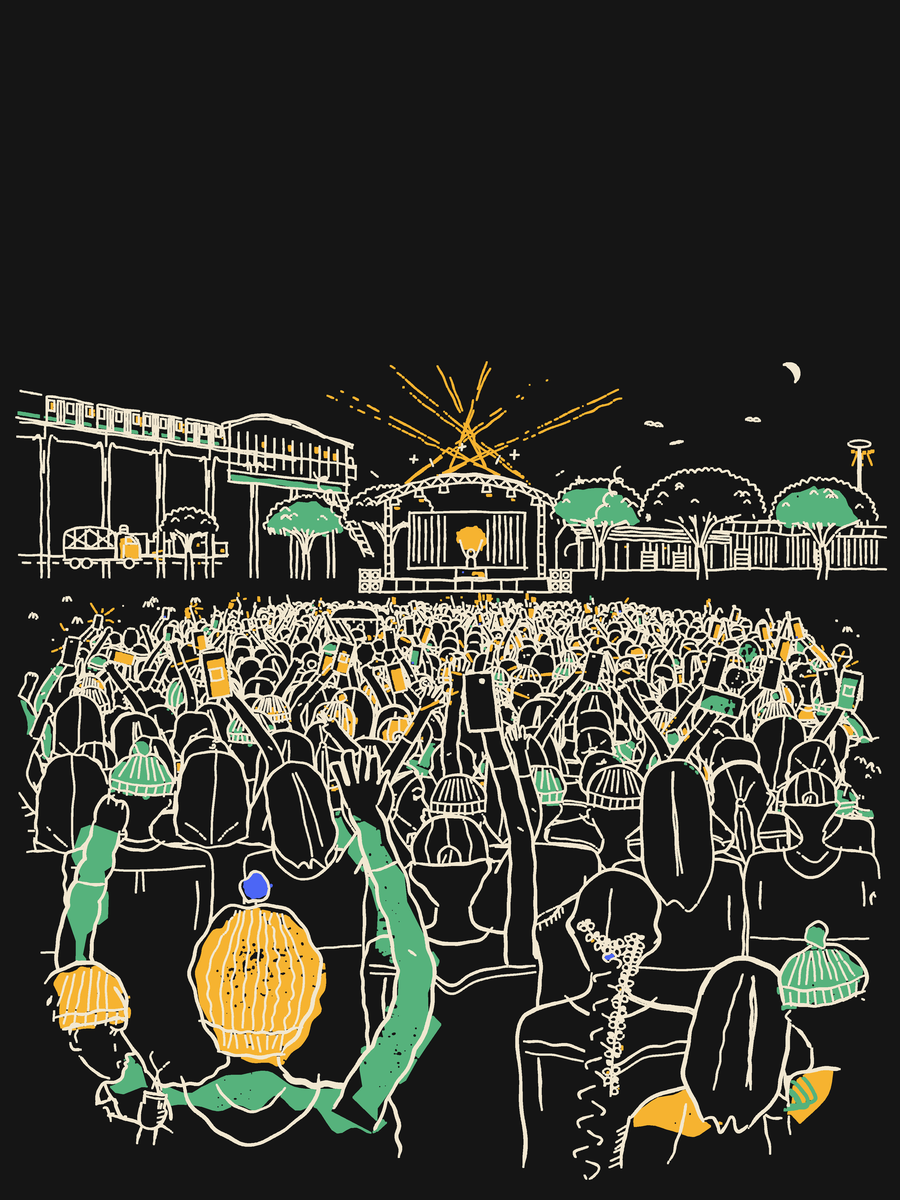
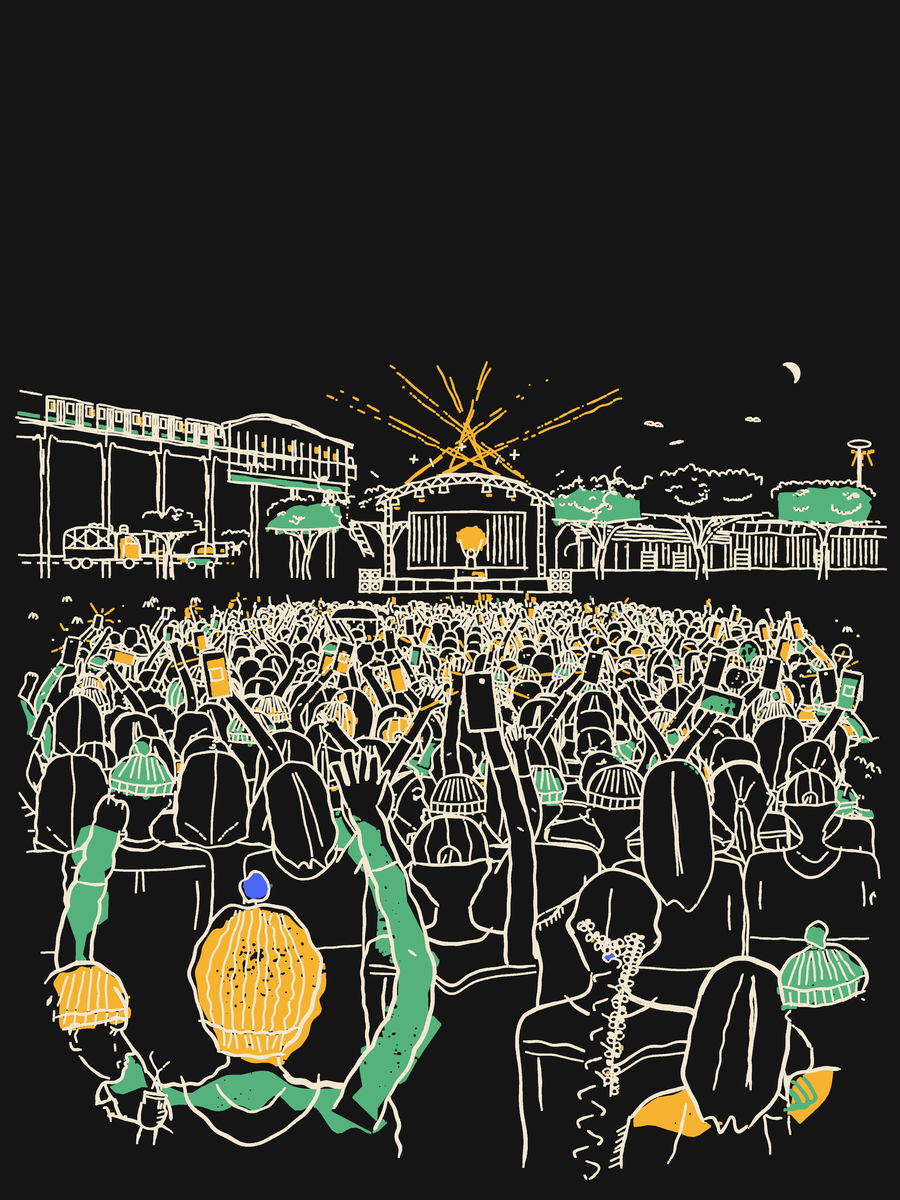
03 crowd: rain trees as clumped umbrellas with uneven leaf edges, a far row of trees behind the halls, hatched viaduct piers, a green-and-yellow auto on Tumakuru Road

diff --git a/pipeline/art/art-c-crowd/gen.py b/pipeline/art/art-c-crowd/gen.py
@@ -1539,8 +1539,22 @@ class Scene(Art):
             self.knock(col)
             self.line([cap[0], (x - cw * 0.55, yb + 10 * sc), (x - cw / 2 + rng.gauss(0, 0.3), 770)], lw, rng=rng, wob=0.3, trem=0.4, a0=0.5, a1=3.0)
             self.line([cap[1], (x + cw * 0.55, yb + 10 * sc), (x + cw / 2 + rng.gauss(0, 0.3), 770)], lw, rng=rng, wob=0.3, trem=0.4, a0=0.5, a1=3.0)
-            if sc > 0.75:
-                self.line([(x - cw * 0.12, yb + 16 * sc), (x - cw * 0.12 + rng.gauss(0, 0.4), yb + 16 * sc + rng.uniform(20, 45))], MINW, rng=rng, wob=0.2, trem=0.2, a0=0.5, a1=3.0)
+            # the side away from the stage lights: a few hand hatches, never the same twice
+            if cw > 7:
+                nh = rng.randint(1, 3) if sc > 0.75 else rng.randint(0, 1)
+                for j in range(nh):
+                    hx = x - cw * 0.5 + 2.6 + j * 2.9 + rng.uniform(-0.4, 0.4)
+                    if hx > x - 0.5:
+                        break
+                    y0h = yb + 13 * sc + rng.uniform(0, 14)
+                    self.line([(hx, y0h), (hx + rng.gauss(0, 0.3), y0h + rng.uniform(18, 70) * sc)], MINW, rng=rng, wob=0.2, trem=0.2, a0=0.5, a1=3.0)
+            # a lamp post on the parapet every other span
+            if k % 2 == 0 and x < XE - 30:
+                lx = x + rng.uniform(2, 6) * sc
+                ly = self.vg(lx)[0]
+                lh = 24 * sc + 4
+                self.line([(lx, ly - 1), (lx + rng.gauss(0, 0.3), ly - lh), (lx + 5 * sc + 1.5, ly - lh - 1.5)], MINW, rng=rng, wob=0.15, trem=0, a0=0.3, a1=0.4)
+                self.dot(lx + 5 * sc + 2.5, ly - lh + 1.2, 1.9, layer='Y', rng=rng)
         self.marks['viaduct'] = (180, self.vg(180)[1])
 
     def train(self, rng):
@@ -1705,10 +1719,34 @@ class Scene(Art):
         for a in (-0.35, -0.05, 0.25):
             self.line([(hx + 5, hy + a * 6), (hx + 22 + rng.uniform(0, 8), hy + a * 22)], MINW, rng=rng, layer='Y', wob=0.3, trem=0, a0=0.4, a1=2.0)
         self.marks['lorry'] = (x0 + 50, gy - 54)
-        # headlights further down the road
-        for (hx, hy) in ((236, 747), (262, 748)):
+        # an auto coming the other way: yellow hood, green body, the way they run here
+        self.auto(250, gy, rng)
+        # a car further down, just its lights
+        for (hx, hy) in ((300, 748),):
             self.dot(hx, hy, 2.1, layer='Y', rng=rng)
             self.dot(hx + 7, hy + 0.4, 2.1, layer='Y', rng=rng)
+
+    def auto(self, xf, gy, rng):
+        """an autorickshaw side-on, nose to the left"""
+        xr = xf + 36
+        hood = [(xf + 7, gy - 15), (xf + 8, gy - 27), (xf + 14, gy - 31), (xr - 8, gy - 32), (xr - 1, gy - 27), (xr + 1, gy - 14)]
+        body = [(xf - 1, gy - 6), (xf, gy - 12), (xf + 5, gy - 16), (xr + 1, gy - 15), (xr + 2, gy - 6)]
+        self.knock(hood + [(xr + 2, gy - 4), (xf - 1, gy - 4), (xf, gy - 12)])
+        self.blob([(xf + 9, gy - 26), (xf + 14, gy - 30), (xr - 8, gy - 31), (xr - 1, gy - 26), (xr - 1, gy - 22), (xf + 9, gy - 22)], 'Y', rng=rng, gap=0.0,
+                  shift=0.5, jit=0.03, n=16)
+        self.blob([(xf + 1, gy - 7), (xf + 2, gy - 12), (xf + 6, gy - 15), (xr, gy - 14), (xr + 1, gy - 7)], 'G', rng=rng, gap=0.0, shift=0.5, jit=0.03, n=16)
+        self.line(hood, MINW, rng=rng, wob=0.3, trem=0.2, a0=0.5, a1=0.8)
+        self.line(body, MINW, rng=rng, wob=0.3, trem=0.2, a0=0.5, a1=0.8)
+        self.line([(xf + 8, gy - 27), (xf + 3, gy - 14)], MINW, rng=rng, wob=0.2, trem=0, a0=0.3, a1=0.4)     # windscreen
+        self.line([(xr - 12, gy - 31), (xr - 13, gy - 15)], MINW, rng=rng, wob=0.2, trem=0, a0=0.3, a1=0.4)  # the door gap
+        for wx in (xf + 6, xr - 5):
+            ring = [(wx + math.cos(a) * 4.2, gy - 3.8 + math.sin(a) * 4.2) for a in [TAU * i / 7 for i in range(7)]]
+            self.knock(ring)
+            self.line(ring, MINW, rng=rng, wob=0.15, trem=0, closed=True, close_frac=1.02)
+        self.dot(xf + 1, gy - 12.5, 2.0, layer='Y', rng=rng)
+        for a in (-0.25, 0.1):
+            self.line([(xf - 4, gy - 12 + a * 4), (xf - 16 - rng.uniform(0, 6), gy - 12 + a * 16)], MINW, rng=rng, layer='Y', wob=0.2, trem=0, a0=0.4, a1=2.0)
+        self.marks['auto'] = (xf + 18, gy - 32)
 
     def low_buildings(self, rng):
         lw = MINW
@@ -1807,61 +1845,17 @@ class Scene(Art):
                 self.dot(lx, ly, 2.0, layer='Y', rng=rng)
         self.line([(xa - 3, base), (xb, base + 0.5)], lw, rng=rng, wob=0.4, trem=0.4, a0=1.0, a1=2.0)
 
-    def rain_tree(self, cx, base, rx, ct, cb, rng, fill=None, lean=0.0):
-        """samanea saman: a wide, low umbrella on a short forked trunk"""
-        lw = MINW
-        n = 18
-        top = []
-        for i in range(n + 1):
-            t = i / n
-            u = 2 * t - 1
-            x = cx + rx * u * (1 + 0.04 * math.sin(3 * u + cx))
-            y = cb - (cb - ct) * max(0.0, 1 - abs(u) ** 2.2) ** 0.55 + rng.gauss(0, 1.0) + lean * u * 6
-            top.append((x, y))
-        bot = []
-        for i in range(n + 1):
-            t = 1 - i / n
-            u = 2 * t - 1
-            bot.append((cx + rx * 0.97 * u, cb + 5 * (1 - u * u) + rng.gauss(0, 1.0)))
-        canopy = top + bot
-        # trunk + limbs
-        fy = cb + (base - cb) * rng.uniform(0.38, 0.5)
-        fx = cx + rng.gauss(0, rx * 0.05)
-        tw = max(5.0, rx * 0.075)
-        trunk = [(fx - tw * 0.7, fy), (cx - tw + rng.gauss(0, 1), base), (cx + tw + rng.gauss(0, 1), base), (fx + tw * 0.7, fy)]
-        self.knock(trunk)
-        limbs = []
-        nl = rng.randint(4, 6)
-        for i in range(nl):
-            u = -0.85 + 1.7 * (i + rng.uniform(0.25, 0.75)) / nl
-            ex, ey = cx + rx * u * 0.85, cb + 3 * (1 - u * u) + rng.uniform(-3, 3)
-            mx, my = fx + (ex - fx) * 0.45 + rng.gauss(0, 2), fy + (ey - fy) * 0.6 - abs(u) * 4
-            limbs.append([(fx + u * tw * 0.6, fy + 2), (mx, my), (ex, ey + 2)])
-            self.knock(offset_path(self.hand(limbs[-1], wob=0, trem=0, rng=rng), 2.4 + 2.2 * (1 - abs(u))) +
-                       offset_path(self.hand(limbs[-1], wob=0, trem=0, rng=rng), -(2.4 + 2.2 * (1 - abs(u))))[::-1])
-        d = self.hand(canopy, closed=True, wob=0, trem=0, rng=rng)
-        self.knock(d)
-        if fill:
-            self.blob(canopy, fill, rng=rng, scale=(0.9, 0.97), jit=0.05, shift=2.0, gap=0.7, n=40)
-        self.line([trunk[0], (cx - tw * 0.85 + rng.gauss(0, 1), (fy + base) / 2), trunk[1]], lw * 1.15, rng=rng, wob=0.3, trem=0.4, a0=0.6, a1=1.0)
-        self.line([trunk[3], (cx + tw * 0.85 + rng.gauss(0, 1), (fy + base) / 2), trunk[2]], lw * 1.15, rng=rng, wob=0.3, trem=0.4, a0=0.6, a1=1.0)
-        for lm in limbs:
-            p = self.hand(lm, wob=0.5, trem=0.3, rng=rng)
-            self.ink(p, lw, rng=rng, a0=0.6, a1=1.5, pv=0.25)
-            # a twig fork near the canopy
-            if rng.random() < 0.6:
-                a, b = p[int(len(p) * 0.6)], p[-1]
-                self.line([a, (b[0] + rng.uniform(-9, 9), b[1] - rng.uniform(0, 4))], MINW, rng=rng, wob=0.3, trem=0, a0=0.4, a1=0.8)
-        # leafy edge: small scallops along the top, looser hanging tufts below
-        dense = catmull(top, False, 0.8)
+    def leaf_edge(self, pts, rng, lw, smin=4.0, smax=13.0, gap=0.1, layer='line'):
+        """a leafy edge along pts: one short stroke per scallop, scallops of very
+        uneven size and swell, the pen lifting now and then"""
+        dense = catmull(pts, False, 0.8)
         s = cumlen(dense)
         Lt = s[-1]
-        pos = 0.0
+        pos = rng.uniform(0, 3)
         j = 0
-        while pos < Lt - 4:
-            sl = rng.uniform(7, 12)
-            a = pos
-            b = min(Lt, pos + sl)
+        while pos < Lt - 3:
+            sl = rng.uniform(smin, smax) * (1.5 if rng.random() < 0.15 else 1.0)
+            a, b = pos, min(Lt, pos + sl)
             while j < len(s) - 2 and s[j + 1] < a:
                 j += 1
             p0 = dense[j]
@@ -1869,27 +1863,124 @@ class Scene(Art):
             while k < len(s) - 2 and s[k + 1] < b:
                 k += 1
             p1 = dense[k]
+            if rng.random() < gap:
+                pos = b + rng.uniform(0.5, 3)
+                continue
             mx, my = (p0[0] + p1[0]) / 2, (p0[1] + p1[1]) / 2
             nx, ny = (p1[1] - p0[1]), -(p1[0] - p0[0])
             nn = math.hypot(nx, ny) or 1
-            bul = sl * rng.uniform(0.28, 0.45)
-            self.line([p0, (mx + nx / nn * bul, my + ny / nn * bul), p1], lw, rng=rng, wob=0.3, trem=0, a0=0.3, a1=0.6, pv=0.15)
-            pos = b + rng.uniform(-1.5, 1.0)
-        # inner clumps (the layered umbrella)
-        for i in range(int(rx / 10)):
-            u = rng.uniform(-0.75, 0.75)
-            x = cx + rx * u
-            ytop = cb - (cb - ct) * max(0.0, 1 - abs(u) ** 2.2) ** 0.55
-            y = ytop + (cb - ytop) * rng.uniform(0.3, 0.75)
-            sl = rng.uniform(8, 13)
-            self.line([(x - sl / 2, y), (x, y - sl * 0.4), (x + sl / 2, y)], lw, rng=rng, wob=0.3, trem=0, a0=0.3, a1=0.6)
-        # underside: hanging leaf ticks, gaps
-        for i in range(int(rx / 5)):
+            bul = sl * rng.uniform(0.22, 0.58)
+            sk = rng.uniform(-0.18, 0.18) * sl      # lean the bump a little
+            tx, ty = (p1[0] - p0[0]) / (sl or 1), (p1[1] - p0[1]) / (sl or 1)
+            q = [p0, (mx + nx / nn * bul * 0.8 - tx * sl * 0.22 + tx * sk, my + ny / nn * bul * 0.8 - ty * sl * 0.22 + ty * sk),
+                 (mx + nx / nn * bul + tx * sk, my + ny / nn * bul + ty * sk),
+                 (mx + nx / nn * bul * 0.8 + tx * sl * 0.22 + tx * sk, my + ny / nn * bul * 0.8 + ty * sl * 0.22 + ty * sk), p1]
+            self.line(q, lw, layer=layer, rng=rng, wob=0.12, trem=0, a0=0.35, a1=0.7, pv=0.15)
+            pos = b + rng.uniform(-1.0, 0.4)
+
+    def rain_tree(self, cx, base, rx, ct, cb, rng, fill=None, lean=0.0, far=False):
+        """samanea saman: a wide, low umbrella of clumps on a short forked trunk"""
+        lw = MINW
+        # the canopy is a few overlapping clumps along a low dome
+        k = max(3, int(rx / 17) + rng.randint(0, 2))
+        clumps = []
+        for i in range(k):
+            u = -0.78 + 1.56 * (i + rng.uniform(0.2, 0.8)) / k
+            crx = rx * rng.uniform(0.3, 0.46)
+            dome = max(0.0, 1 - abs(u) ** 2.0) ** 0.6
+            ctop = cb - (cb - ct) * (0.55 + 0.45 * dome) * rng.uniform(0.86, 1.06) + lean * u * 6
+            clumps.append((cx + rx * u, ctop, crx, (cb - ctop) * rng.uniform(0.75, 1.0)))
+        xs = [cx - rx + 2 * rx * i / 60 for i in range(61)]
+
+        def ytop(x):
+            best = None
+            for (ux, uy, ur, uh) in clumps:
+                d = (x - ux) / (ur * 1.25)
+                if abs(d) < 1:
+                    y = uy + uh * 0.55 * (1 - math.sqrt(1 - d * d))
+                    best = y if best is None else min(best, y)
+            return best
+        top = [(x, ytop(x)) for x in xs if ytop(x) is not None]
+        top = [(x, min(y, cb - 3)) for x, y in top]
+        bot = []
+        for i in range(17):
+            u = 1 - 2 * i / 16
+            bot.append((cx + rx * 0.96 * u, cb + 4 * (1 - u * u) + rng.gauss(0, 1.2)))
+        canopy = [top[0]] + top[1:-1:2] + [top[-1]] + bot
+        # trunk + limbs
+        fy = cb + (base - cb) * rng.uniform(0.38, 0.5)
+        fx = cx + rng.gauss(0, rx * 0.05)
+        tw = max(4.0, rx * 0.075)
+        trunk = [(fx - tw * 0.7, fy), (cx - tw + rng.gauss(0, 1), base), (cx + tw + rng.gauss(0, 1), base), (fx + tw * 0.7, fy)]
+        self.knock(trunk)
+        limbs = []
+        nl = rng.randint(3, 6)
+        for i in range(nl):
+            u = -0.85 + 1.7 * (i + rng.uniform(0.25, 0.75)) / nl
+            ex, ey = cx + rx * u * 0.85, cb + 3 * (1 - u * u) + rng.uniform(-3, 3)
+            mx, my = fx + (ex - fx) * 0.45 + rng.gauss(0, 2), fy + (ey - fy) * 0.6 - abs(u) * 4
+            limbs.append([(fx + u * tw * 0.6, fy + 2), (mx, my), (ex, ey + 2)])
+            hl = self.hand(limbs[-1], wob=0, trem=0, rng=rng)
+            wd = (2.0 + 2.2 * (1 - abs(u))) * (0.7 if far else 1.0)
+            self.knock(offset_path(hl, wd) + offset_path(hl, -wd)[::-1])
+        d = self.hand(canopy, closed=True, wob=0, trem=0, rng=rng)
+        self.knock(d)
+        if fill:
+            self.blob(canopy, fill, rng=rng, scale=(0.88, 0.97), jit=0.06, shift=2.2, gap=0.75, n=44)
+        self.line([trunk[0], (cx - tw * 0.85 + rng.gauss(0, 1), (fy + base) / 2), trunk[1]], lw * (1.0 if far else 1.15), rng=rng, wob=0.3, trem=0.4, a0=0.6, a1=1.0)
+        self.line([trunk[3], (cx + tw * 0.85 + rng.gauss(0, 1), (fy + base) / 2), trunk[2]], lw * (1.0 if far else 1.15), rng=rng, wob=0.3, trem=0.4, a0=0.6, a1=1.0)
+        if not far and rng.random() < 0.7:
+            # bark: a couple of short splits on the shadow side
+            for i in range(rng.randint(2, 3)):
+                yy = fy + (base - fy) * rng.uniform(0.2, 0.8)
+                self.line([(cx + tw * 0.35, yy), (cx + tw * 0.4 + rng.gauss(0, 0.5), yy + rng.uniform(4, 8))], MINW, rng=rng, wob=0.15, trem=0, a0=0.3, a1=0.5)
+        for lm in limbs:
+            p = self.hand(lm, wob=0.5, trem=0.3, rng=rng)
+            self.ink(p, lw, rng=rng, a0=0.6, a1=1.5, pv=0.25)
+            if rng.random() < 0.6 and not far:
+                a, b = p[int(len(p) * 0.6)], p[-1]
+                self.line([a, (b[0] + rng.uniform(-9, 9), b[1] - rng.uniform(0, 4))], MINW, rng=rng, wob=0.3, trem=0, a0=0.4, a1=0.8)
+        # the leafy top, then the lobes of the clumps behind showing through
+        self.leaf_edge(top, rng, lw, smin=3.5 if far else 4.0, smax=9.0 if far else 13.0, gap=0.16 if far else 0.08)
+        if not far:
+            order = sorted(range(k), key=lambda i: clumps[i][1])
+            for i in order[:max(1, k - 2)]:
+                ux, uy, ur, uh = clumps[i]
+                if rng.random() < 0.45:
+                    continue
+                # the lower rim of a high clump, drawn where it sits over the ones in front
+                arc = []
+                a0, a1 = rng.uniform(0.15, 0.35) * math.pi, rng.uniform(0.62, 0.88) * math.pi
+                for j in range(7):
+                    a = a0 + (a1 - a0) * j / 6
+                    arc.append((ux + math.cos(a) * ur * 0.95, uy + uh * 0.35 + math.sin(a) * uh * 0.45))
+                arc = [(x, y) for x, y in arc if y < cb - 2 and abs(x - cx) < rx * 0.9]
+                if len(arc) > 2:
+                    self.leaf_edge(arc, rng, lw, smin=3.5, smax=8.0, gap=0.2)
+            # leaf ticks in loose clusters, on the lit (upper-left) side of clumps
+            for (ux, uy, ur, uh) in clumps:
+                for c in range(1 if rng.random() < 0.55 else 0):
+                    gx = ux + rng.uniform(-0.55, 0.25) * ur
+                    gy = uy + uh * rng.uniform(0.15, 0.5)
+                    for t in range(rng.randint(2, 5)):
+                        x = gx + rng.gauss(0, ur * 0.18)
+                        y = gy + rng.gauss(0, uh * 0.12)
+                        if y > cb - 4 or abs(x - cx) > rx * 0.9:
+                            continue
+                        s_ = rng.uniform(3.0, 5.5)
+                        if rng.random() < 0.5:
+                            self.line([(x - s_, y), (x - s_ * 0.2, y - s_ * 0.55), (x + s_ * 0.6, y - s_ * 0.1)], MINW, rng=rng, wob=0.2, trem=0, a0=0.3, a1=0.5)
+                        else:
+                            self.line([(x - s_ * 0.6, y - s_ * 0.5), (x, y), (x + s_ * 0.6, y - s_ * 0.5)], MINW, rng=rng, wob=0.2, trem=0, a0=0.3, a1=0.5)
+        # underside: the dark under the umbrella, a few hanging ticks
+        for i in range(int(rx / (9 if far else 5))):
             u = rng.uniform(-0.95, 0.95)
-            x = cx + rx * 0.97 * u
-            y = cb + 5 * (1 - u * u)
-            if rng.random() < 0.7:
-                self.line([(x - 2, y - 1), (x + rng.gauss(0, 1), y + rng.uniform(3, 7))], MINW, rng=rng, wob=0.2, trem=0, a0=0.3, a1=0.5)
+            x = cx + rx * 0.96 * u
+            y = cb + 4 * (1 - u * u)
+            if rng.random() < 0.6:
+                self.line([(x - 1.5, y - 1), (x + rng.gauss(0, 1), y + rng.uniform(3, 8))], MINW, rng=rng, wob=0.2, trem=0, a0=0.3, a1=0.5)
+        if not far:
+            self.line([bot[0], bot[len(bot) // 2], bot[-1]], MINW, rng=rng, wob=0.6, trem=0.6, a0=2.0, a1=6.0, pv=0.35)
 
     def moon(self, x, y, r, rng, tilt=-0.6):
         """a four-day moon, low in the west"""
@@ -2098,6 +2189,11 @@ class Scene(Art):
             self.bat(x, y, s_, r, a)
         self.marks['bats'] = (900, 572)
 
+        # far trees behind the halls and the sheds: smaller, lighter, broken
+        r = R(15)
+        for (cx, rx, ct, cb) in ((770, 30, 690, 712), (842, 24, 696, 714), (1000, 34, 684, 708), (1062, 22, 694, 712), (1140, 30, 688, 710),
+                                 (126, 26, 700, 722), (314, 20, 708, 724)):
+            self.rain_tree(cx + r.gauss(0, 4), 740, rx, ct + r.gauss(0, 3), cb, r, fill=None, lean=r.gauss(0, 0.2), far=True)
         # far: low buildings, the mast at the interchange, the viaduct + train + station
         r = R(2)
         self.low_buildings(r)
@@ -2113,7 +2209,7 @@ class Scene(Art):
         self.marks['halls'] = (850, 712)
         # rain trees
         r = R(8)
-        for (cx, rx, ct, cb, fill, lean) in ((252, 38, 680, 708, None, 0.2), (408, 54, 662, 704, 'G', -0.3), (520, 58, 650, 694, None, 0.0),
+        for (cx, rx, ct, cb, fill, lean) in ((226, 36, 680, 708, None, 0.2), (408, 54, 662, 704, 'G', -0.3), (520, 58, 650, 694, None, 0.0),
                                             (800, 66, 642, 692, 'G', 0.3), (936, 82, 628, 686, None, -0.2), (1098, 68, 640, 694, 'G', 0.1)):
             self.rain_tree(cx, 772, rx, ct, cb, r, fill=fill, lean=lean)
         self.marks['trees'] = (936, 628)
